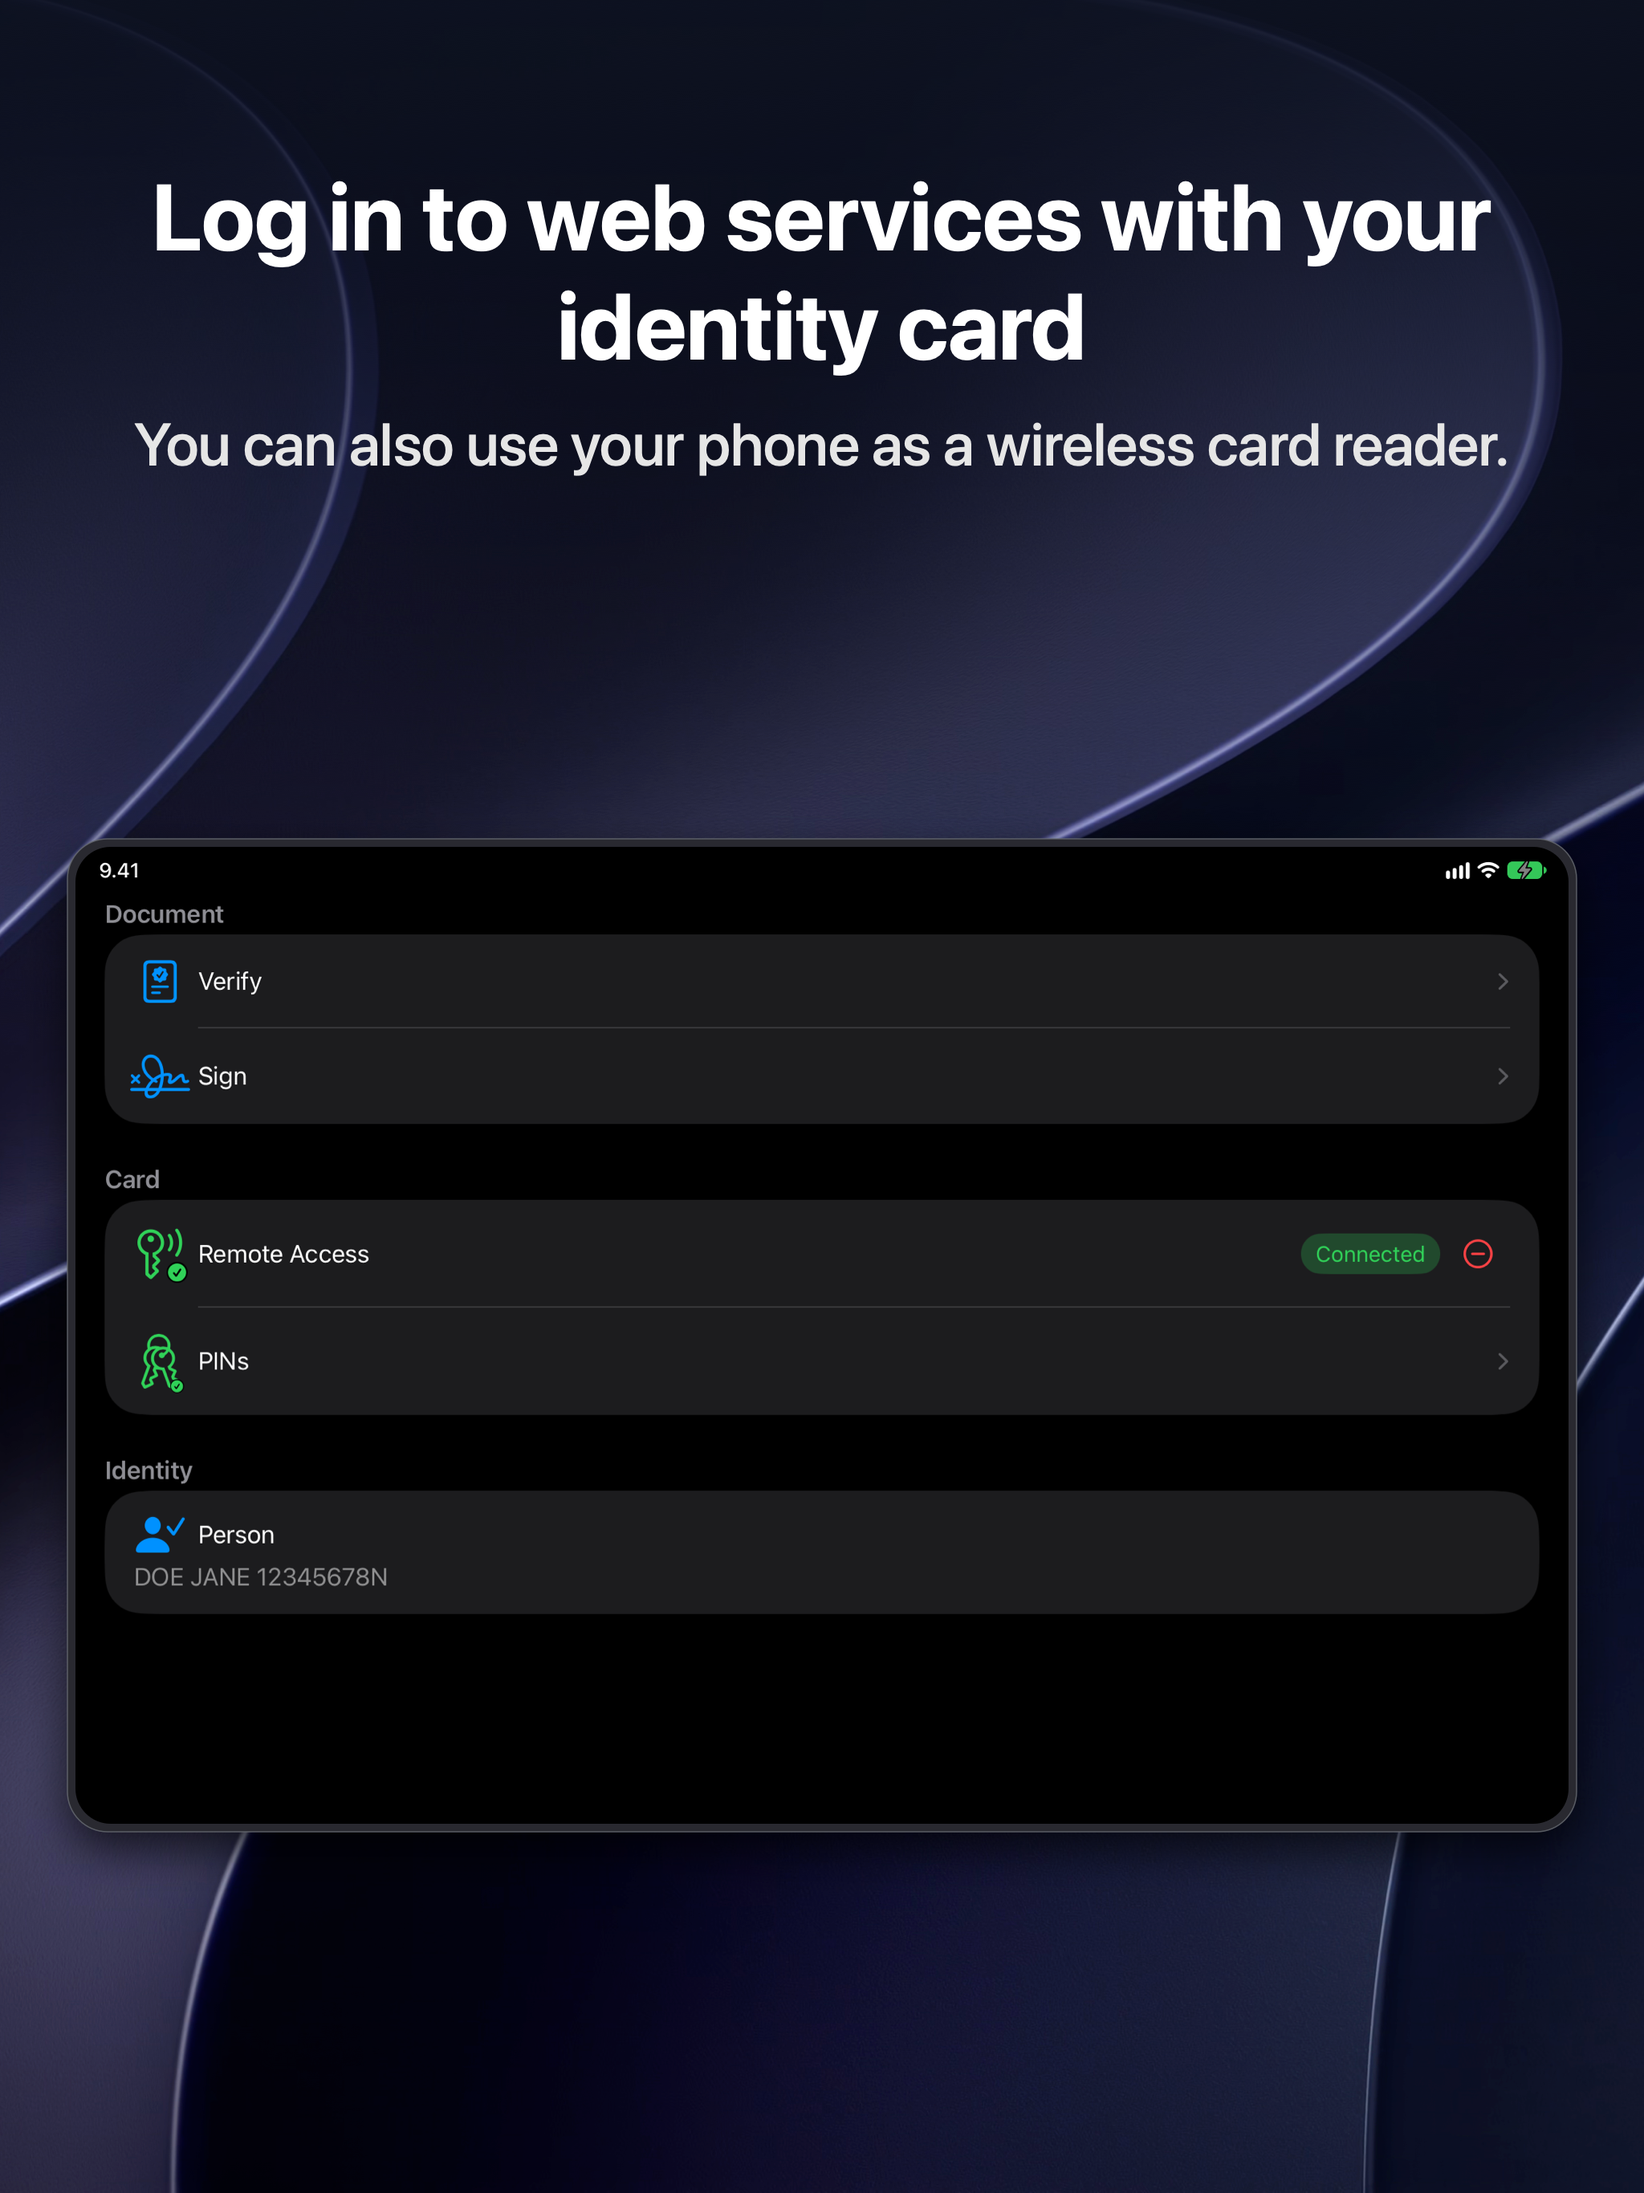
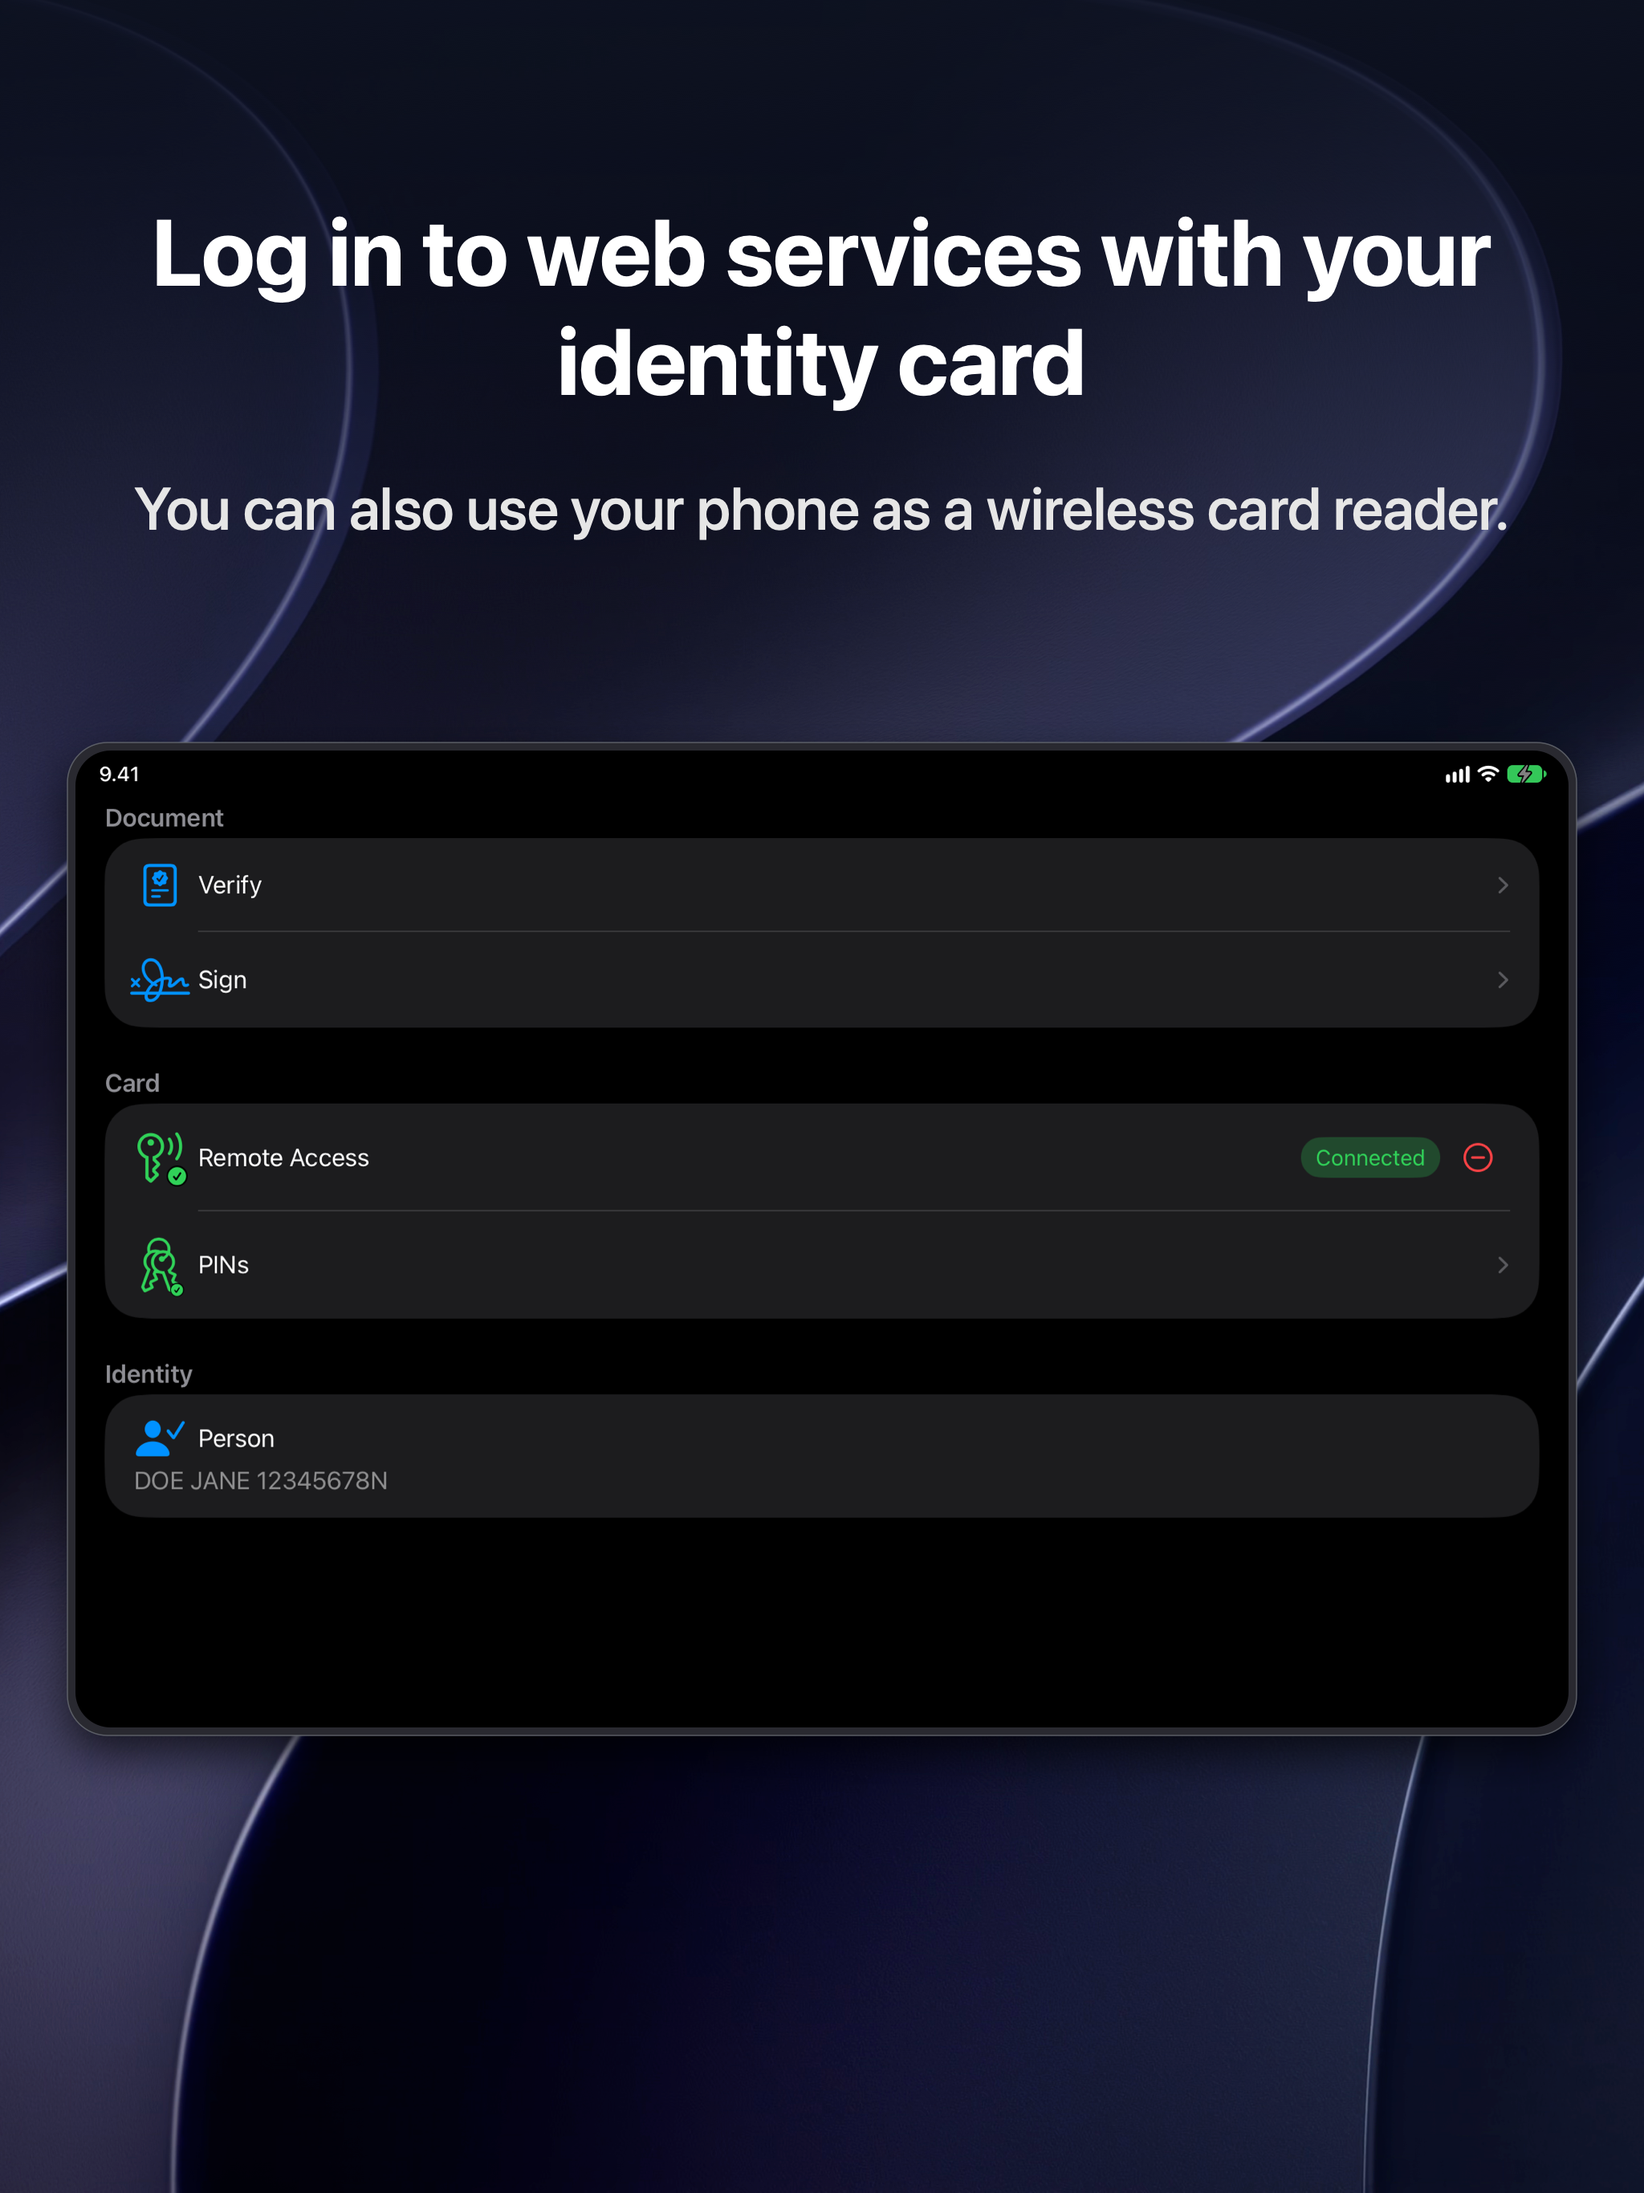
Fine-tune typographical rhythm and spacing between title, subtitle, and app preview

diff --git a/Scripts/generate-store-screenshots.swift b/Scripts/generate-store-screenshots.swift
@@ -352,9 +352,7 @@ func renderIOS(locale: String, slide: SlideData) {
         context.fill(CGRect(x: 0, y: 0, width: width, height: height))
     }
 
-    var currentTopY = CGFloat(height) - 180
-
-    // 2. Title
+    // 2. Title metrics
     let titleLength = slide.title.count
     let titleFontSize: CGFloat = titleLength > 36 ? 94 : (titleLength > 25 ? 100 : 108)
     let titleFont = NSFont.systemFont(ofSize: titleFontSize, weight: .bold)
@@ -372,11 +370,8 @@ func renderIOS(locale: String, slide: SlideData) {
         attributes: titleAttr
     )
     let titleHeight = ceil(titleBounding.height)
-    let titleRect = CGRect(x: 50, y: currentTopY - titleHeight, width: CGFloat(width - 100), height: titleHeight)
-    (slide.title as NSString).draw(in: titleRect, withAttributes: titleAttr)
-    currentTopY -= (titleHeight + 32)
 
-    // 3. Subtitle
+    // 3. Subtitle metrics
     let subLength = slide.subtitle.count
     let subFontSize: CGFloat = subLength > 50 ? 58 : 64
     let subFont = NSFont.systemFont(ofSize: subFontSize, weight: .medium)
@@ -394,20 +389,30 @@ func renderIOS(locale: String, slide: SlideData) {
         attributes: subAttr
     )
     let subHeight = ceil(subBounding.height)
-    let subRect = CGRect(x: 60, y: currentTopY - subHeight, width: CGFloat(width - 120), height: subHeight)
+
+    // 4. Spatial Geometry & Hierarchy
+    // Compromise: Title-to-Subtitle has breathing room (64px), Subtitle-to-Card is pulled closer (175px)
+    let phoneY: CGFloat = 330
+    let subToCardGap: CGFloat = 175
+    let titleToSubGap: CGFloat = 64
+
+    let rawCropHeight: CGFloat = 1920
+    let targetWidth: CGFloat = 1160
+    let targetHeight = targetWidth * (rawCropHeight / 1290.0) // ~1726.5 px
+    let phoneX = (CGFloat(width) - targetWidth) / 2
+    let cornerRadius: CGFloat = 56.0
+
+    let subBottomY = phoneY + targetHeight + subToCardGap
+    let subRect = CGRect(x: 60, y: subBottomY, width: CGFloat(width - 120), height: subHeight)
+    let titleBottomY = subBottomY + subHeight + titleToSubGap
+    let titleRect = CGRect(x: 50, y: titleBottomY, width: CGFloat(width - 100), height: titleHeight)
+
+    (slide.title as NSString).draw(in: titleRect, withAttributes: titleAttr)
     (slide.subtitle as NSString).draw(in: subRect, withAttributes: subAttr)
 
-    // 4. Phone Screen presentation
+    // 5. Phone Screen presentation
     let phoneURL = assetsDir.appendingPathComponent(slide.assetName)
     if let phoneImg = NSImage(contentsOf: phoneURL) {
-        let rawCropHeight: CGFloat = 1920
-        let targetWidth: CGFloat = 1160
-        let targetHeight = targetWidth * (rawCropHeight / 1290.0) // ~1726.5 px
-        let phoneX = (CGFloat(width) - targetWidth) / 2
-        let subBottomY = subRect.origin.y
-        let availableSpace = subBottomY
-        let phoneY = round((availableSpace - targetHeight) / 2)
-        let cornerRadius: CGFloat = 56.0
 
         // Bezel & Ambient Shadow
         context.saveGState()
@@ -506,9 +511,7 @@ func renderIPad(locale: String, slide: SlideData) {
         context.fill(CGRect(x: 0, y: 0, width: width, height: height))
     }
 
-    var currentTopY = CGFloat(height) - 200
-
-    // 2. Title
+    // 2. Title metrics
     let titleLength = slide.title.count
     let titleFontSize: CGFloat = titleLength > 45 ? 116 : (titleLength > 30 ? 126 : 136)
     let titleFont = NSFont.systemFont(ofSize: titleFontSize, weight: .bold)
@@ -526,11 +529,8 @@ func renderIPad(locale: String, slide: SlideData) {
         attributes: titleAttr
     )
     let titleHeight = ceil(titleBounding.height)
-    let titleRect = CGRect(x: 80, y: currentTopY - titleHeight, width: CGFloat(width - 160), height: titleHeight)
-    (slide.title as NSString).draw(in: titleRect, withAttributes: titleAttr)
-    currentTopY -= (titleHeight + 36)
 
-    // 3. Subtitle
+    // 3. Subtitle metrics
     let subLength = slide.subtitle.count
     let subFontSize: CGFloat = subLength > 55 ? 68 : 74
     let subFont = NSFont.systemFont(ofSize: subFontSize, weight: .medium)
@@ -548,20 +548,29 @@ func renderIPad(locale: String, slide: SlideData) {
         attributes: subAttr
     )
     let subHeight = ceil(subBounding.height)
-    let subRect = CGRect(x: 100, y: currentTopY - subHeight, width: CGFloat(width - 200), height: subHeight)
+
+    // 4. Spatial Geometry & Hierarchy
+    let ipadY: CGFloat = 580
+    let subToCardGap: CGFloat = 260
+    let titleToSubGap: CGFloat = 72
+
+    let rawCropHeight: CGFloat = 1340
+    let targetWidth: CGFloat = 1860
+    let targetHeight = targetWidth * (rawCropHeight / 2048.0) // ~1217 px
+    let ipadX = (CGFloat(width) - targetWidth) / 2
+    let cornerRadius: CGFloat = 44.0
+
+    let subBottomY = ipadY + targetHeight + subToCardGap
+    let subRect = CGRect(x: 100, y: subBottomY, width: CGFloat(width - 200), height: subHeight)
+    let titleBottomY = subBottomY + subHeight + titleToSubGap
+    let titleRect = CGRect(x: 80, y: titleBottomY, width: CGFloat(width - 160), height: titleHeight)
+
+    (slide.title as NSString).draw(in: titleRect, withAttributes: titleAttr)
     (slide.subtitle as NSString).draw(in: subRect, withAttributes: subAttr)
 
-    // 4. iPad Screen presentation
+    // 5. iPad Screen presentation
     let ipadURL = assetsDir.appendingPathComponent(slide.assetName)
     if let ipadImg = NSImage(contentsOf: ipadURL) {
-        let rawCropHeight: CGFloat = 1340
-        let targetWidth: CGFloat = 1860
-        let targetHeight = targetWidth * (rawCropHeight / 2048.0) // ~1217 px
-        let ipadX = (CGFloat(width) - targetWidth) / 2
-        let subBottomY = subRect.origin.y
-        let availableSpace = subBottomY
-        let ipadY = round((availableSpace - targetHeight) / 2)
-        let cornerRadius: CGFloat = 44.0
 
         // Bezel & Ambient Shadow
         context.saveGState()
